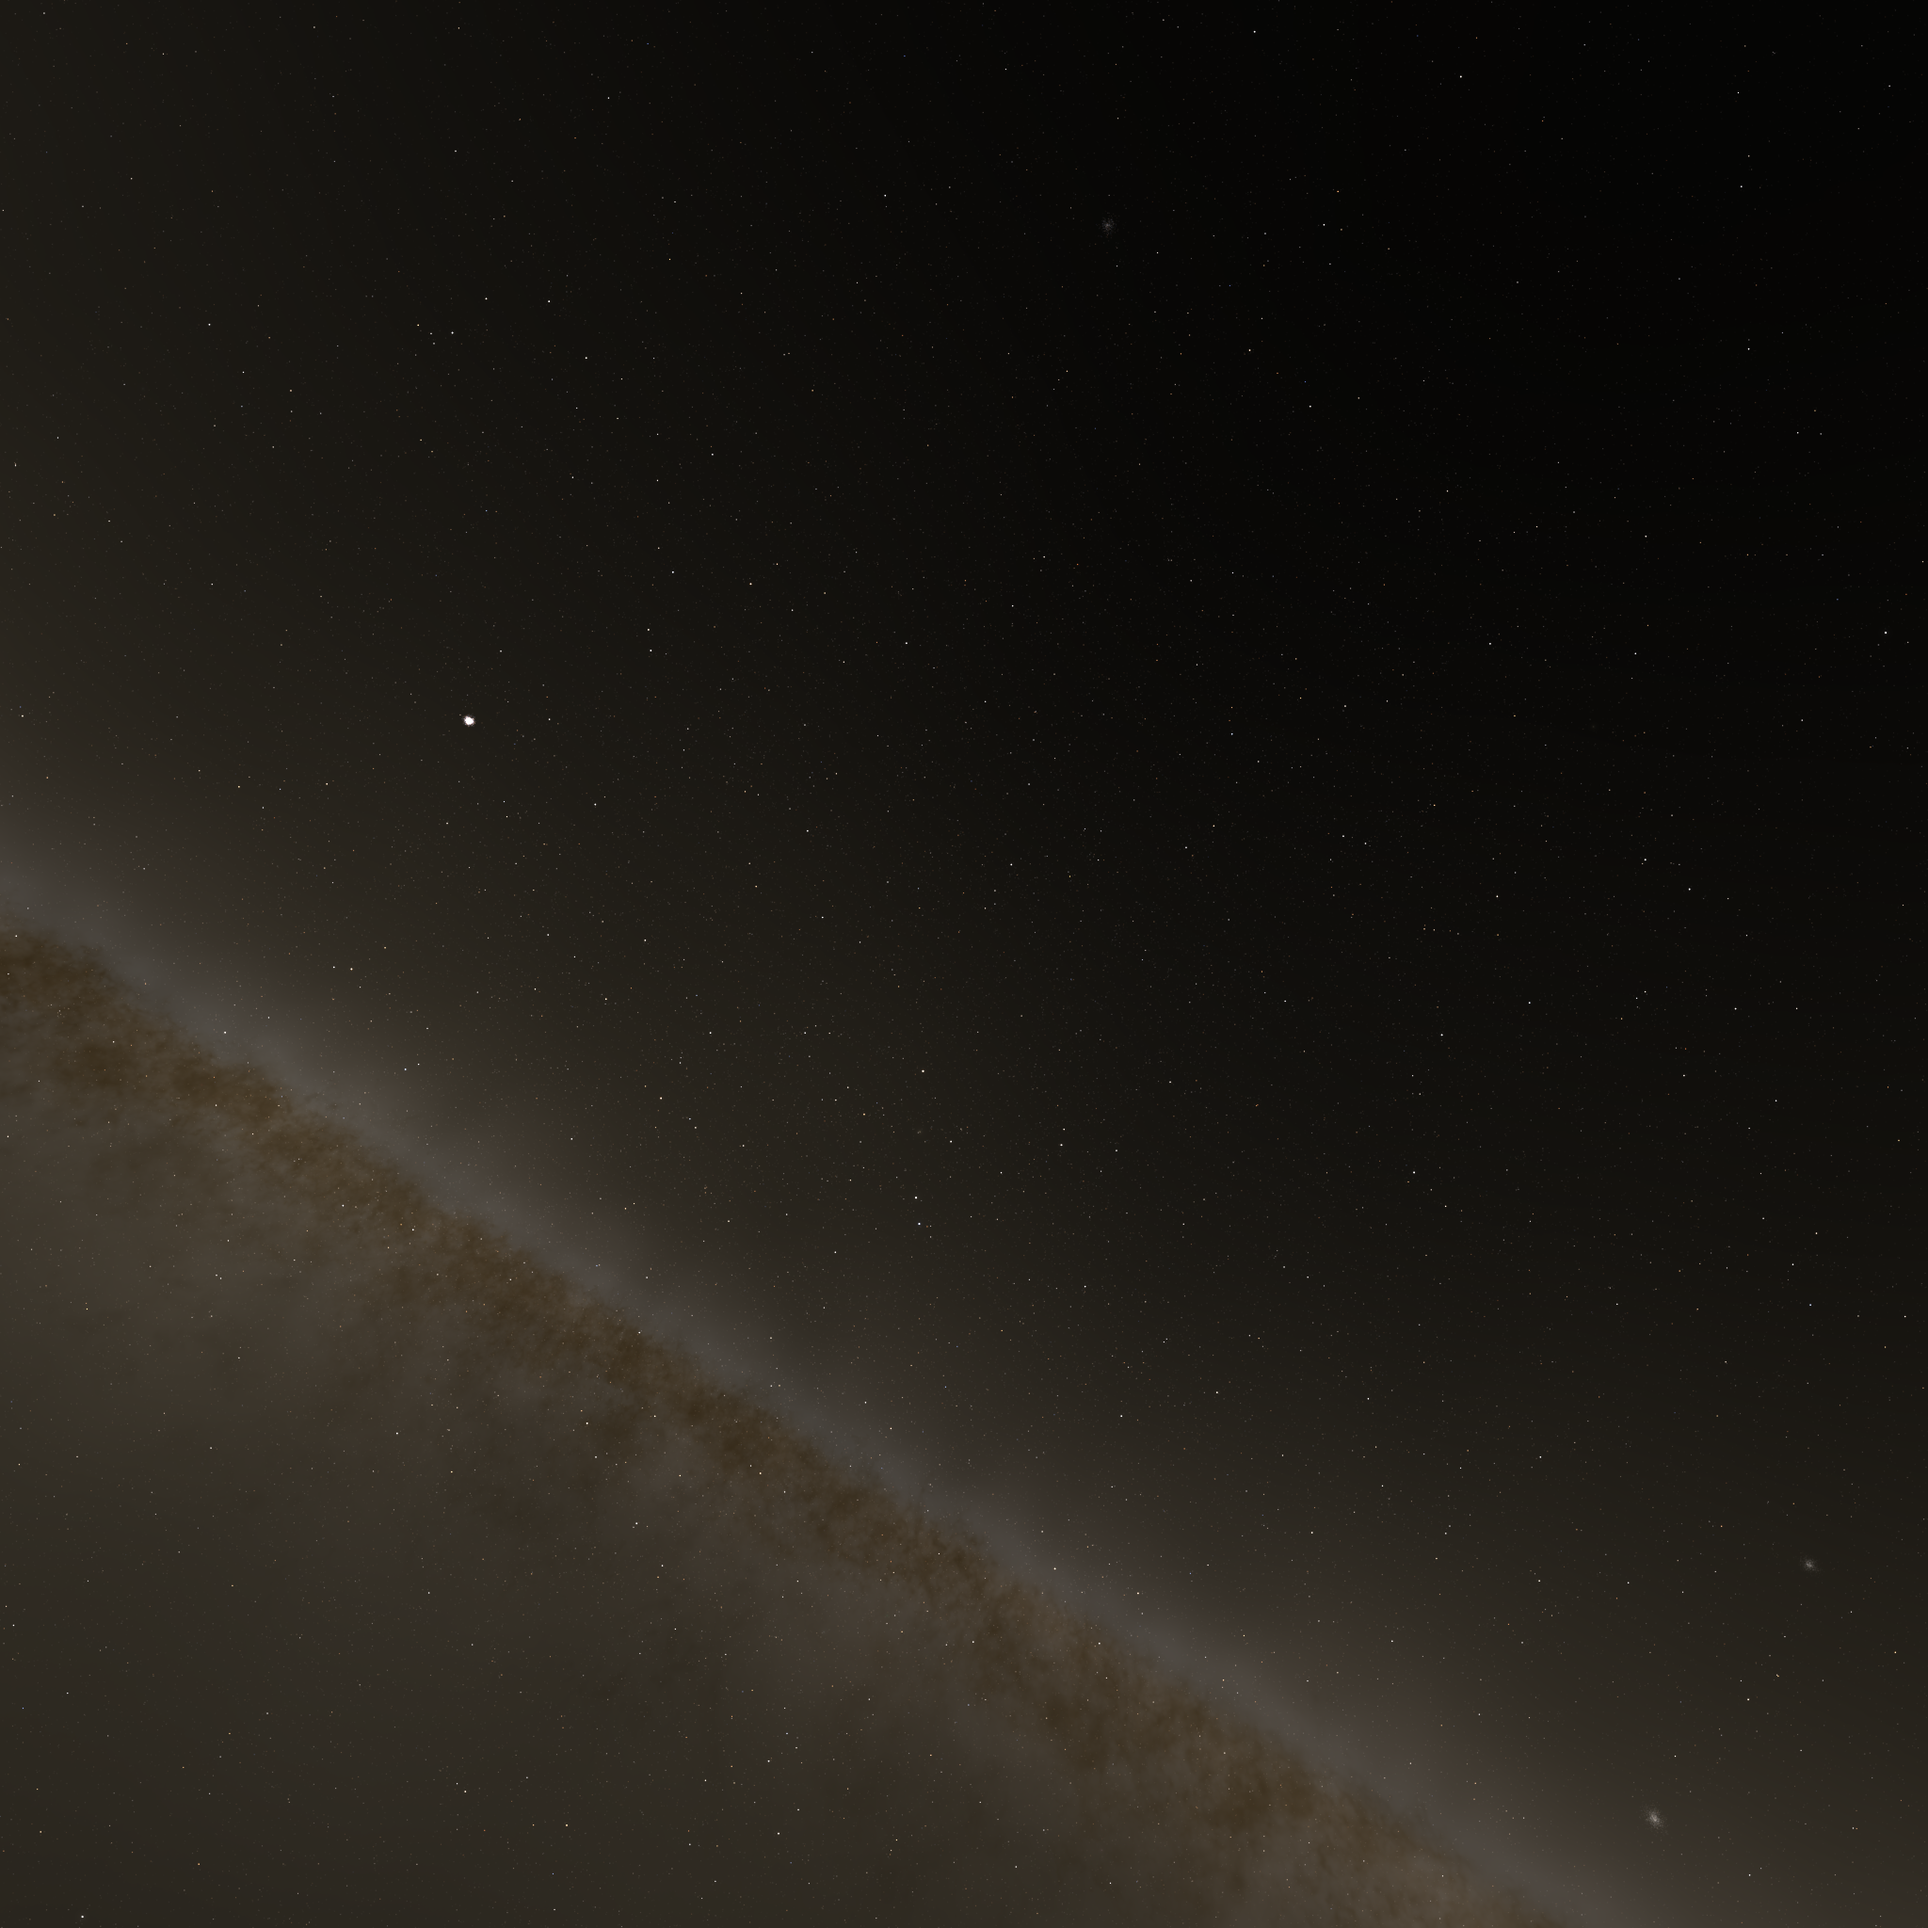
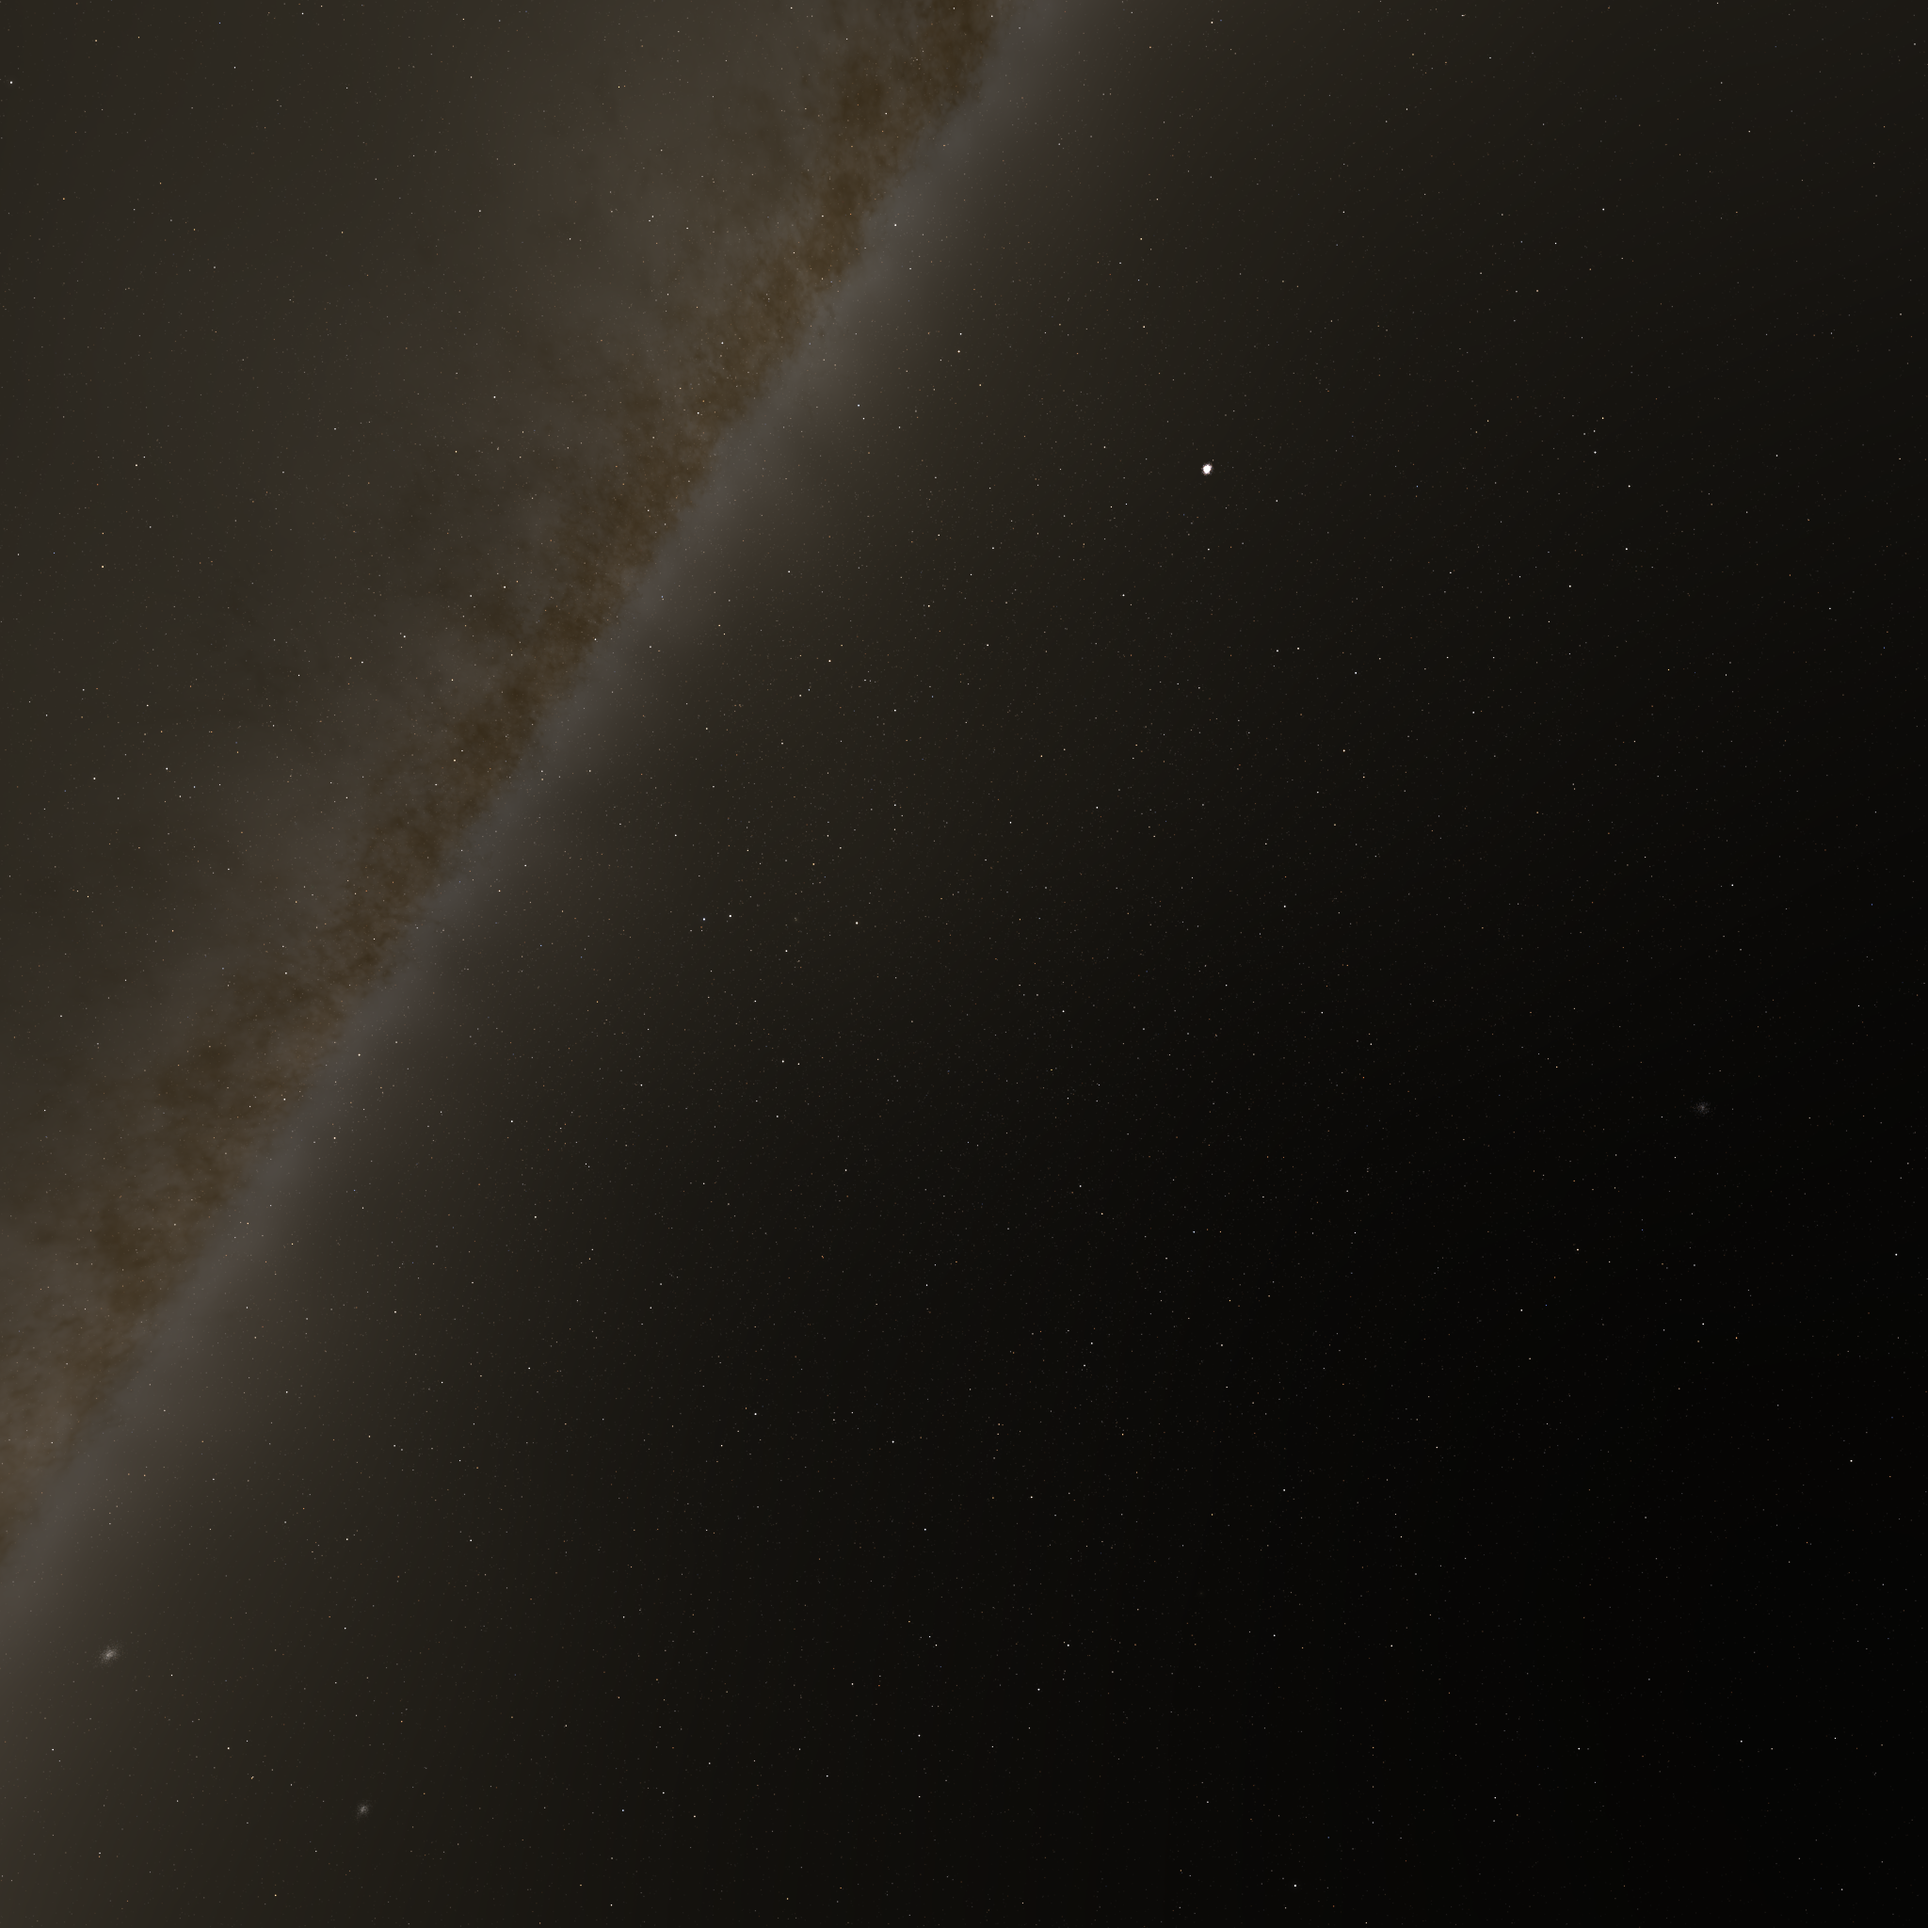
update

diff --git a/scripts/main.js b/scripts/main.js
@@ -1,5 +1,5 @@
 import * as THREE from "three";
-
+// import { OrbitControls } from "three/examples/jsm/controls/OrbitControls"
 import { generateText } from "./utils.js";
 
 const skyLeft = new URL('/images/skybox/left.png', import.meta.url).href
@@ -35,7 +35,7 @@ const uniforms = {
 }
 
 // Objects
-let box, box2, box2Obj, sphere;
+let box, box2, box2Obj, box3, box3Obj, octahedron, octaObj, octaMoon, octaObj2, octaMoon2;
 
 init()
 animate()
@@ -43,31 +43,67 @@ animate()
 function init() {
   renderer = new THREE.WebGLRenderer();
   scene = new THREE.Scene()
-  camera = new THREE.PerspectiveCamera(45, window.innerWidth / window.innerHeight, 0.1, 1000)
+  camera = new THREE.PerspectiveCamera(75, window.innerWidth / window.innerHeight, 1, 20)
 
   renderer.shadowMap.enabled = true
-  camera.position.set(0, 0, 10)
+  // const control = new OrbitControls(camera, renderer.domElement)
+
+  camera.position.set(0, 0, 21)
+  // control.update
 
   const skyBox = new THREE.CubeTextureLoader()
     .load([
-      skyLeft,
-      skyRight,
-      skyFront,
-      skyBack,
       skyTop,
       skyBottom,
+      skyFront,
+      skyBack,
+      skyRight,
+      skyLeft,
     ]);
 
   scene.background = skyBox
 
-  const textureLoader = new THREE.TextureLoader()
+  const welcomeText = generateText({
+    text: "welcome to",
+    size: 0.25,
+    position: [0, 4, 0]
+  })
+  scene.add(welcomeText)
 
-  const greetingText = generateText(
-    "Hi, Welcome to \nMy Portfolio :)",
-    [0, 30, 30],
-    [0, 0, 0]
-  );
+  const greetingText = generateText({
+    text: "Rief Planetary-System",
+    size: 0.5,
+    position: [0, 3, 0]
+  });
   scene.add(greetingText);
+
+  const scrollText = generateText({
+    text: "scroll to explore",
+    size: 0.25,
+    position: [0, -3, 0]
+  });
+  scene.add(scrollText)
+
+  const hiText = generateText({
+    text: "hi, i am",
+    size: 0.15,
+    position: [0, 4, 18]
+  })
+  scene.add(hiText)
+
+  const nameText = generateText({
+    text: "Rifqi Rosyidi",
+    size: 0.5,
+    position: [0, 3, 18]
+  });
+  scene.add(nameText);
+
+  const bioText = generateText({
+    text: "Web Developer, Designer",
+    size: 0.15,
+    position: [0, -3, 18]
+  });
+  scene.add(bioText);
 
   const boxGeo = new THREE.BoxGeometry()
   const boxMat = new THREE.MeshPhongMaterial({ color: 0x504A4B, shininess: 100, reflectivity: 100 })
@@ -78,30 +114,61 @@ function init() {
   const box2Geo = new THREE.BoxGeometry(0.3, 0.3, 0.3)
   const box2Mat = new THREE.MeshPhongMaterial({ color: 0x605A5b, shininess: 100, reflectivity: 100 })
   box2 = new THREE.Mesh(box2Geo, box2Mat)
+  box3 = box2.clone()
+
   box2Obj.add(box2)
   scene.add(box2Obj)
   box2Obj.rotation.x = THREE.MathUtils.degToRad(10)
   box2.position.x = 4
 
-  const ambientLight = new THREE.AmbientLight(0xffffff, 0.5)
+  box3Obj = new THREE.Object3D()
+  box3Obj.add(box3)
+  box3Obj.rotation.set(0, 0, 0.3)
+  box3.position.y = 6
+  scene.add(box3Obj)
+
+  const octaGeo = new THREE.OctahedronGeometry()
+  const octaMat = new THREE.MeshPhongMaterial({ color: 0x504A4B, shininess: 100, reflectivity: 100 })
+  octahedron = new THREE.Mesh(octaGeo, octaMat)
+  scene.add(octahedron)
+  octahedron.position.set(0, 0, 15)
+
+  octaObj = new THREE.Object3D()
+  octaObj2 = new THREE.Object3D()
+  octaObj.position.set(0, 0, 15)
+  octaObj2.position.set(0, 0, 15)
+
+  const octaMoonGeo = new THREE.OctahedronGeometry(0.2)
+  octaMoon = new THREE.Mesh(octaMoonGeo, octaMat)
+  octaMoon2 = octaMoon.clone()
+
+  octaObj.add(octaMoon)
+  octaObj2.add(octaMoon2)
+
+  octaMoon.position.x = 5
+  octaMoon2.position.x = 3.5
+
+  scene.add(octaObj)
+  scene.add(octaObj2)
+
+
+
+  const ambientLight = new THREE.AmbientLight(0xffffff, 0.25)
   scene.add(ambientLight)
 
   // ==== DIRECTIONAL LIGHT ===
 
-  const directionalLight = new THREE.DirectionalLight(0xffffff, 1)
+  const directionalLight = new THREE.DirectionalLight(0xffffff, 2)
   scene.add(directionalLight)
   directionalLight.position.multiplyScalar(10)
-  directionalLight.position.set(-30, 20, 20)
+  directionalLight.position.set(30, 20, 20)
   directionalLight.castShadow = true
   directionalLight.shadow.camera.bottom = -12
 
   // const dLightShadowHelper = new THREE.CameraHelper(directionalLight.shadow.camera)
   // scene.add(dLightShadowHelper)
 
-  scene.fog = new THREE.FogExp2(0x222222, 0.02)
-
-
-
+  scene.fog = new THREE.FogExp2(0x222222, 0.04)
 
 
   renderer.setSize(window.innerWidth, window.innerHeight);
@@ -123,12 +190,28 @@ function animate() {
   box2.rotation.y += 0.02
   box2.rotation.x -= 0.001
 
+  box3.rotation.y -= 0.001
+  box3.rotation.x += 0.03
+
+  octaObj.rotation.y += 0.005
+  octaObj.rotation.x += 0.001
+
+  octaObj2.rotation.y += 0.01
+  octaObj2.rotation.x += 0.001
+
+  octahedron.rotation.y += 0.005
+  octahedron.rotation.x += 0.001
+
+  octaMoon.rotation.y += 0.01
+
   box2Obj.rotation.y += 0.01
+  box3Obj.rotation.x += 0.003
+  box3Obj.rotation.y += 0.003
 
 
 
-  target.x = (1 - mouse.x) * 0.0003;
-  target.y = (1 - mouse.y) * 0.0003;
+  target.x = (1 - mouse.x) * 0.0001;
+  target.y = (1 - mouse.y) * 0.0001;
 
   camera.rotation.x += 0.005 * (target.y - camera.rotation.x);
   camera.rotation.y += 0.005 * (target.x - camera.rotation.y);
@@ -146,6 +229,9 @@ function onMouseMove(event) {
 
 function onMouseWheel(event) {
   camera.position.z += event.deltaY * 0.01; // move camera along z-axis
+  if (camera.position.z < 10) {
+    camera.position.z = 10
+  }
 }
 
 function onResize(event) {

diff --git a/scripts/utils.js b/scripts/utils.js
@@ -1,9 +1,9 @@
 import * as THREE from "three"
 import { FontLoader } from "three/examples/jsm/loaders/FontLoader"
 
-const fontUrl = new URL("../fonts/josefin.json", import.meta.url).href;
+const fontUrl = new URL("/fonts/nasa.json", import.meta.url).href;
 
-export function generateText(text, position, rotation = [0, 0, 0], hasSide = false) {
+export function generateText({ text, size = 1, position = [0, 0, 0], rotation = [0, 0, 0], hasSide = false }) {
   let displayedText = new THREE.Object3D();
   const fontLoader = new FontLoader();
   fontLoader.load(fontUrl, (font) => {
@@ -13,7 +13,7 @@ export function generateText(text, position, rotation = [0, 0, 0], hasSide = fal
       side: hasSide && THREE.DoubleSide,
     });
 
-    const shapes = font.generateShapes(text, 5);
+    const shapes = font.generateShapes(text, size);
     const geo = new THREE.ShapeBufferGeometry(shapes);
     geo.computeBoundingBox();
     const xMid = -0.5 * (geo.boundingBox.max.x - geo.boundingBox.min.x);

diff --git a/index.html b/index.html
@@ -8,6 +8,10 @@
       body {
         margin: 0;
       }
+      canvas {
+        width: 100vw !important;
+        height: 100vh !important;
+      }
     </style>
   </head>
   <body>
